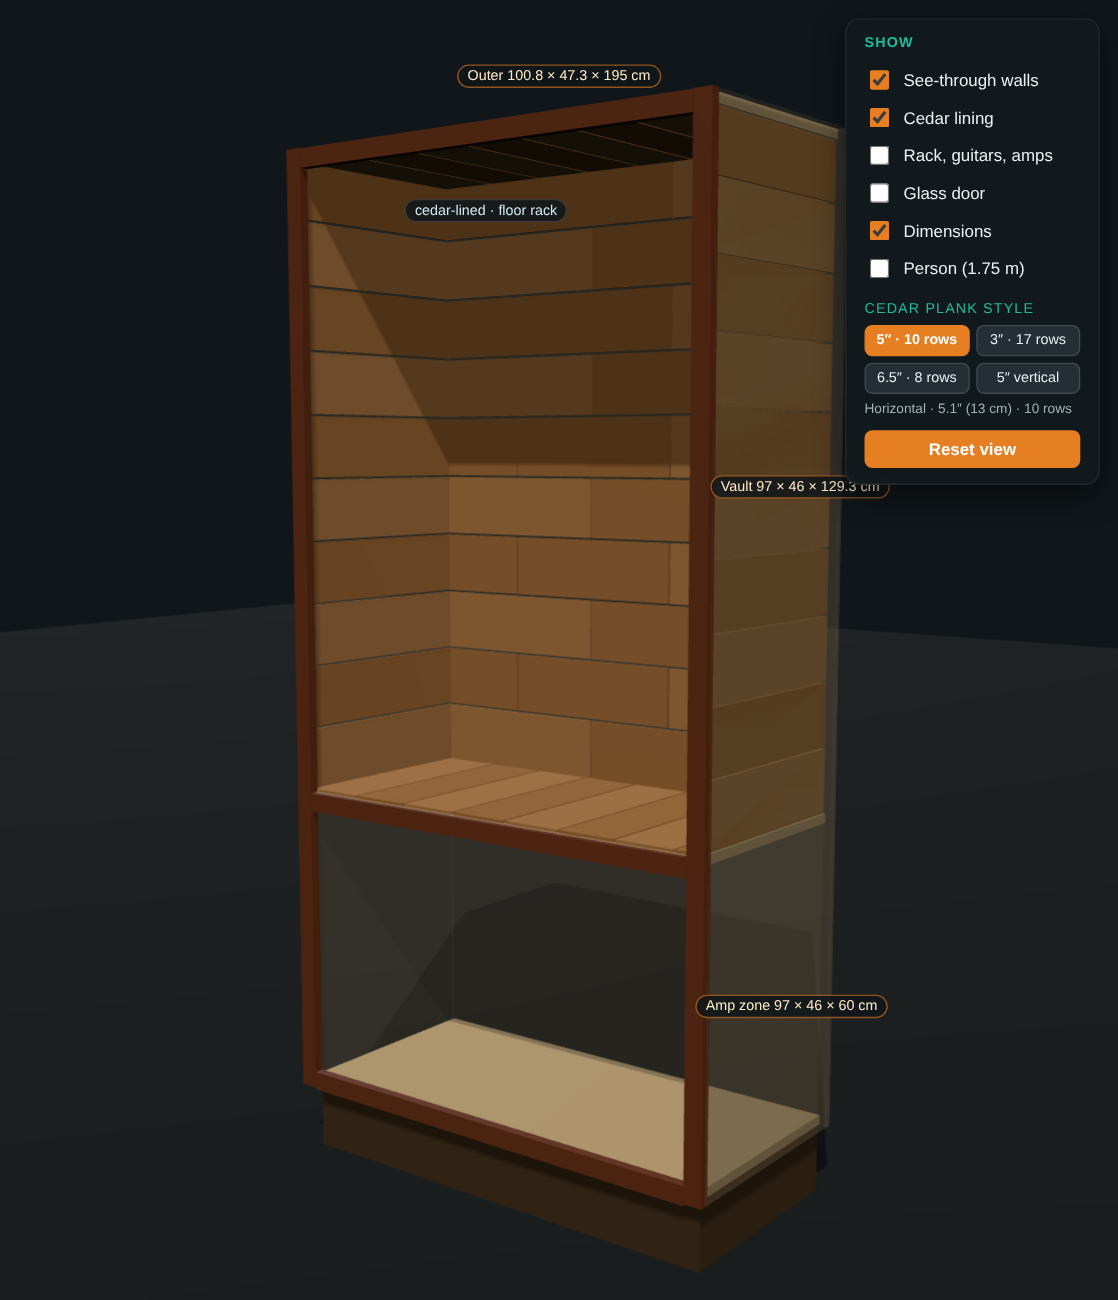
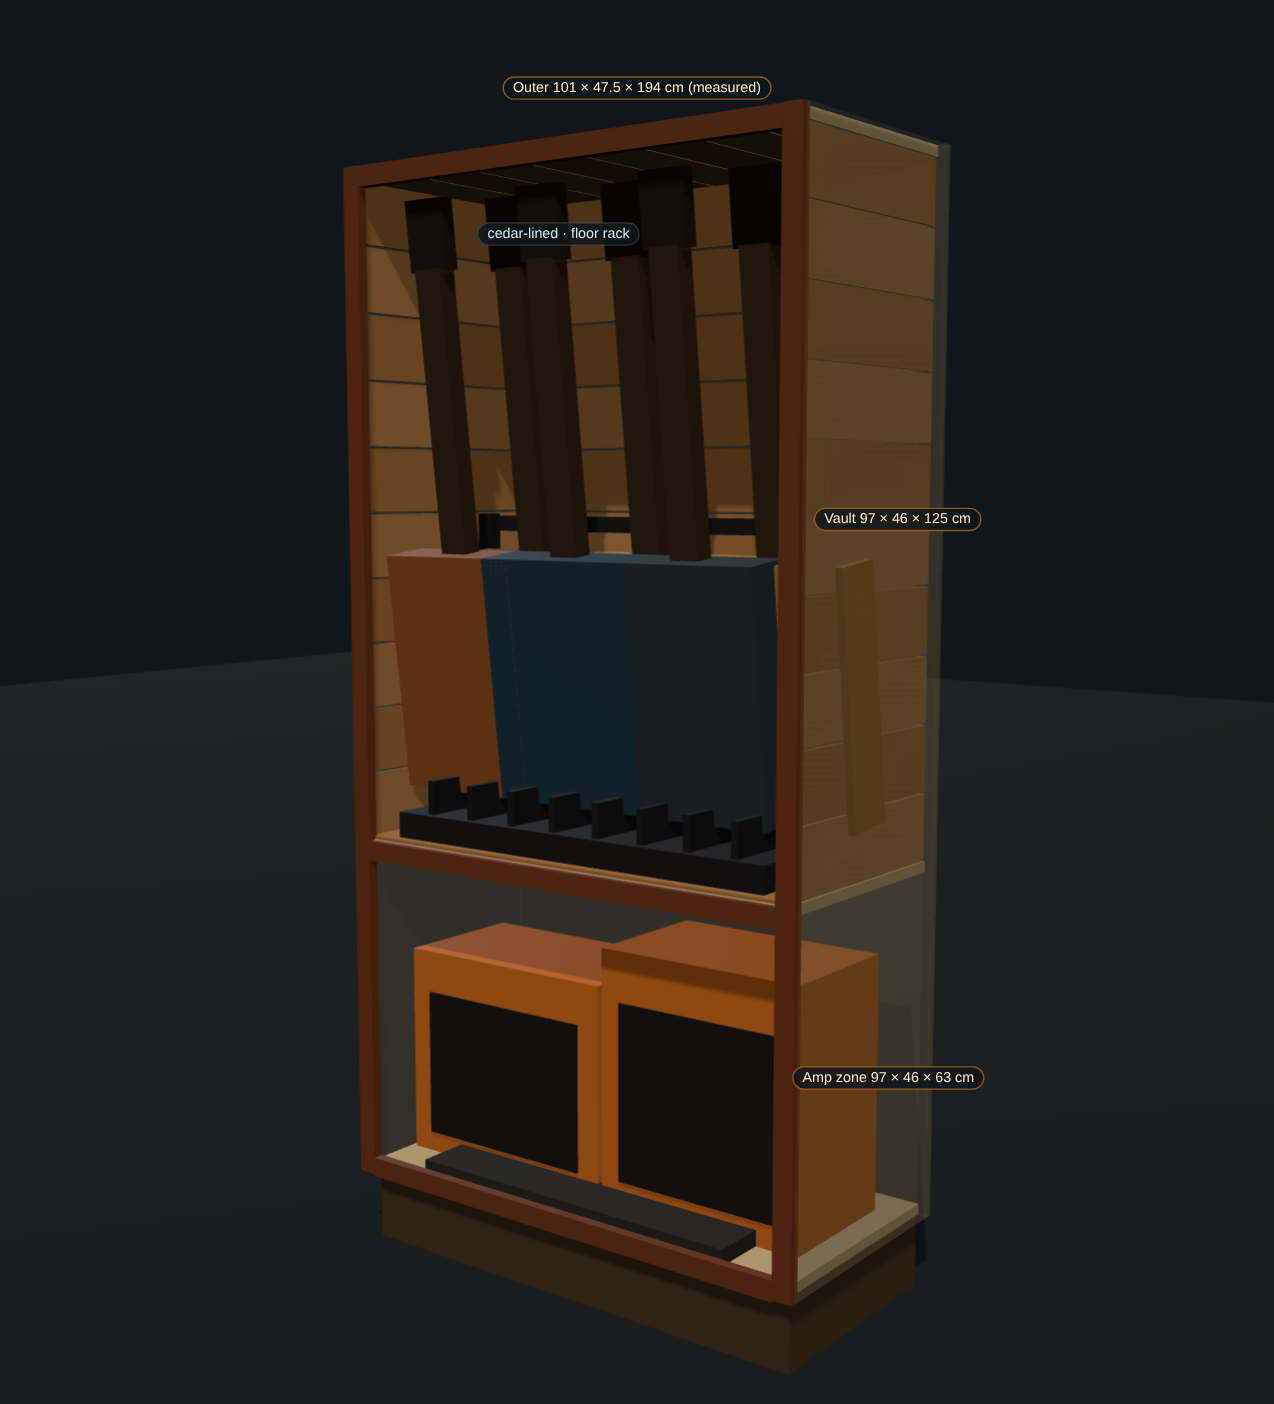
Cedar: final pre-cut plank order (floor L->R, ceiling F->B), supplier email
- cabinet-final-plan.md: pre-cut cedar order at 12.5 cm wide (10 exact rows),
  floor = long L->R planks, ceiling = short F->B planks; cut list + ~10%
  extra (~49 planks: 15x 97x12.5, 30x 46x12.5, + edge strips); corner note
- cedar-order-email.md: copy-paste email to the cedar supplier/wood shop
- 3D model: floor/ceiling plank orientation matches (floor L->R, ceiling
  F->B); default plank width 12.5 cm; camera exposed for renders

Changed region(s): [[0.2433, 0.0308, 0.9732, 0.9231], [0.8819, 0.1846, 0.9123, 0.2154]]

diff --git a/cabinet-3d-final.html b/cabinet-3d-final.html
@@ -46,10 +46,10 @@
   <label><input type="checkbox" id="t-person"> Person (1.75 m)</label>
   <div id="cedarhead">Cedar plank style</div>
   <div id="cedarbtns">
-    <button data-w="13"   data-v="0">5″ · 10 rows</button>
+    <button data-w="12.5" data-v="0">5″ · 10 rows</button>
     <button data-w="7.6"  data-v="0">3″ · 17 rows</button>
     <button data-w="16.5" data-v="0">6.5″ · 8 rows</button>
-    <button data-w="13"   data-v="1">5″ vertical</button>
+    <button data-w="12.5" data-v="1">5″ vertical</button>
   </div>
   <div id="cedarstatus"></div>
   <button id="reset">Reset view</button>
@@ -151,10 +151,12 @@ function buildCedar(W, vertical){
     if(!vertical){ let i=0; for(let y=yb; y<yt-0.2; y+=W){ const h=Math.min(W-REV, yt-y); plank(C, h, 45-REV, xs, y+h/2, 0, i%2); i++; } }
     else { let j=0; for(let z=-22.5; z<22.5-0.2; z+=W){ const w=Math.min(W-REV, 22.5-z); plank(C, vH-REV, w, xs, vMid, z+w/2, j%2); j++; } }
   }
-  // floor + ceiling (planks run front-to-back)
-  for(const yF of [divTop + C/2, vaultTop - C/2]){ let j=0; for(let x=-Wx/2; x<Wx/2-0.2; x+=W){ const w=Math.min(W-REV, Wx/2-x); plank(w, C, 45, x+w/2, yF, 0, j%2); j++; } }
+  // floor: long planks run left-to-right (full width), stacked front-to-back
+  { let j=0; for(let z=-22.5; z<22.5-0.2; z+=W){ const dd=Math.min(W-REV, 22.5-z); plank(Wx, C, dd, 0, divTop + C/2, z+dd/2, j%2); j++; } }
+  // ceiling: short planks run front-to-back (full depth), stacked left-to-right
+  { let j=0; for(let x=-Wx/2; x<Wx/2-0.2; x+=W){ const w=Math.min(W-REV, Wx/2-x); plank(w, C, 45, x+w/2, vaultTop - C/2, 0, j%2); j++; } }
 }
-buildCedar(13, false);
+buildCedar(12.5, false);
 
 // ===== furniture: floor rack + guitars + amps + pedalboard =====
 const furn = new THREE.Group(); scene.add(furn);
@@ -239,14 +241,14 @@ function setCedar(W, v, btn){
   cedarStatus.textContent = `${vert ? 'Vertical' : 'Horizontal'} · ${(+W/2.54).toFixed(1)}″ (${+W} cm) · ${vert ? Math.ceil((IW-1)/+W)+' planks across' : rows+' rows'}`;
 }
 document.querySelectorAll('#cedarbtns button').forEach(b => b.onclick = () => setCedar(b.dataset.w, b.dataset.v, b));
-setCedar('13', '0', document.querySelector('#cedarbtns button'));
+setCedar('12.5', '0', document.querySelector('#cedarbtns button'));
 
 addEventListener('resize', () => {
   camera.aspect = innerWidth/innerHeight; camera.updateProjectionMatrix();
   renderer.setSize(innerWidth, innerHeight); labelRenderer.setSize(innerWidth, innerHeight);
 });
 (function animate(){ requestAnimationFrame(animate); controls.update(); renderer.render(scene, camera); labelRenderer.render(scene, camera); })();
-window.__cab = { scene, OW, OD, OH, IW, VAULT, AMP };
+window.__cab = { scene, camera, controls, CAM0, TGT0, OW, OD, OH, IW, VAULT, AMP };
 } catch (err) { console.error(err); document.getElementById('err').style.display = 'flex'; }
 </script>
 </body>

diff --git a/cabinet-3d-final.template.html b/cabinet-3d-final.template.html
@@ -46,10 +46,10 @@
   <label><input type="checkbox" id="t-person"> Person (1.75 m)</label>
   <div id="cedarhead">Cedar plank style</div>
   <div id="cedarbtns">
-    <button data-w="13"   data-v="0">5″ · 10 rows</button>
+    <button data-w="12.5" data-v="0">5″ · 10 rows</button>
     <button data-w="7.6"  data-v="0">3″ · 17 rows</button>
     <button data-w="16.5" data-v="0">6.5″ · 8 rows</button>
-    <button data-w="13"   data-v="1">5″ vertical</button>
+    <button data-w="12.5" data-v="1">5″ vertical</button>
   </div>
   <div id="cedarstatus"></div>
   <button id="reset">Reset view</button>
@@ -151,10 +151,12 @@ function buildCedar(W, vertical){
     if(!vertical){ let i=0; for(let y=yb; y<yt-0.2; y+=W){ const h=Math.min(W-REV, yt-y); plank(C, h, 45-REV, xs, y+h/2, 0, i%2); i++; } }
     else { let j=0; for(let z=-22.5; z<22.5-0.2; z+=W){ const w=Math.min(W-REV, 22.5-z); plank(C, vH-REV, w, xs, vMid, z+w/2, j%2); j++; } }
   }
-  // floor + ceiling (planks run front-to-back)
-  for(const yF of [divTop + C/2, vaultTop - C/2]){ let j=0; for(let x=-Wx/2; x<Wx/2-0.2; x+=W){ const w=Math.min(W-REV, Wx/2-x); plank(w, C, 45, x+w/2, yF, 0, j%2); j++; } }
+  // floor: long planks run left-to-right (full width), stacked front-to-back
+  { let j=0; for(let z=-22.5; z<22.5-0.2; z+=W){ const dd=Math.min(W-REV, 22.5-z); plank(Wx, C, dd, 0, divTop + C/2, z+dd/2, j%2); j++; } }
+  // ceiling: short planks run front-to-back (full depth), stacked left-to-right
+  { let j=0; for(let x=-Wx/2; x<Wx/2-0.2; x+=W){ const w=Math.min(W-REV, Wx/2-x); plank(w, C, 45, x+w/2, vaultTop - C/2, 0, j%2); j++; } }
 }
-buildCedar(13, false);
+buildCedar(12.5, false);
 
 // ===== furniture: floor rack + guitars + amps + pedalboard =====
 const furn = new THREE.Group(); scene.add(furn);
@@ -239,14 +241,14 @@ function setCedar(W, v, btn){
   cedarStatus.textContent = `${vert ? 'Vertical' : 'Horizontal'} · ${(+W/2.54).toFixed(1)}″ (${+W} cm) · ${vert ? Math.ceil((IW-1)/+W)+' planks across' : rows+' rows'}`;
 }
 document.querySelectorAll('#cedarbtns button').forEach(b => b.onclick = () => setCedar(b.dataset.w, b.dataset.v, b));
-setCedar('13', '0', document.querySelector('#cedarbtns button'));
+setCedar('12.5', '0', document.querySelector('#cedarbtns button'));
 
 addEventListener('resize', () => {
   camera.aspect = innerWidth/innerHeight; camera.updateProjectionMatrix();
   renderer.setSize(innerWidth, innerHeight); labelRenderer.setSize(innerWidth, innerHeight);
 });
 (function animate(){ requestAnimationFrame(animate); controls.update(); renderer.render(scene, camera); labelRenderer.render(scene, camera); })();
-window.__cab = { scene, OW, OD, OH, IW, VAULT, AMP };
+window.__cab = { scene, camera, controls, CAM0, TGT0, OW, OD, OH, IW, VAULT, AMP };
 } catch (err) { console.error(err); document.getElementById('err').style.display = 'flex'; }
 </script>
 </body>

diff --git a/cabinet-final-plan.md b/cabinet-final-plan.md
@@ -21,7 +21,7 @@ Line the **four inner faces of the vault** — back, two sides, floor, and ceili
 **Do not line the front** (that's the door opening). Leave the cedar **bare**
 (no finish) so it buffers humidity.
 
-**Order:** ~**3.9 m² (≈ 42 sq ft)** of **6 mm (¼ in) solid Spanish cedar**
+**Order:** **6 mm (¼ in) solid Spanish cedar**, ~3.25 m² (≈ 35 sq ft) of coverage
 (*Cedrela*, not Western red cedar; kiln-dried). Quote by area from a hardwood/humidor
 dealer. See material notes at the end.
 
@@ -34,28 +34,48 @@ dealer. See material notes at the end.
 | Floor | 97 × 46 cm | 1 |
 | Ceiling | 97 × 46 cm | 1 |
 
-**Install:** run the planks in **horizontal courses (~13 cm / 5 in wide) with
-staggered end seams**; run the back boards full-width and butt the side boards into
-them at the front corners; floor/ceiling boards run front-to-back. Fix with brad
-nails + a little instrument-safe adhesive.
+**Install:** run the planks in **horizontal courses (~12.5 cm / 5 in wide) with
+staggered end seams**; the **back** boards run full-width (left↔right) and the **side**
+boards butt into them at the front corners; the **floor** boards run **left↔right**,
+the **ceiling** boards run **front↔back**. Fix with brad nails + a little
+instrument-safe adhesive.
 
 > Lining adds ~6 mm to each face, so the clear vault becomes ~95.8 × 45 × 124 cm —
 > the guitar rack (≈ 82 × 37 cm) and the standing guitars (≈ 118 cm) still fit.
 
-**How many planks?** Total face area is **3.25 m² (≈ 35 sq ft)**. Short planks waste
-more to cutting, so add ~**20%** → buy material for **~42 sq ft (3.9 m²)**.
+### Order — pre-cut planks (no cutting at home)
 
-| If you buy… | Each plank | Planks to buy |
+Have the supplier cut every plank to size. All planks **¼ in (6 mm) thick × 12.5 cm
+(≈ 5 in) wide** — at 12.5 cm wide the **125 cm vault height = exactly 10 rows** (no ripping).
+
+Plank directions: **back & floor** run **left↔right** (97 cm long); **sides & ceiling**
+run **front↔back** (46 cm long — the ceiling planks are the side planks laid flat).
+
+| Face | Plank size (length × width) | Qty |
 |---|---|---|
-| **6″ × 12″ × ¼″** (recommended of the short planks) | 0.50 sq ft | **~84–85** |
-| 5″ × 12″ × ¼″ | 0.42 sq ft | **~100** |
-| ~13 cm (5″) wide **long boards** (46–97 cm) | — | ~50 (much less cutting waste) |
-| Small 30 × 7.5 cm (12 × 3″) humidor planks | 0.023 m² | ~150–160 |
+| Back (L→R) | 97 × 12.5 cm | 10 |
+| Floor (L→R) | 97 × 12.5 cm | 3 |
+| Floor edge row | 97 × ~8.5 cm | 1 |
+| Left side (F→B) | 46 × 12.5 cm | 10 |
+| Right side (F→B) | 46 × 12.5 cm | 10 |
+| Ceiling (F→B) | 46 × 12.5 cm | 7 |
+| Ceiling edge row | 46 × ~9.5 cm | 1 |
+| **Exact total** | | **42** |
 
-Per-face at **6″ × 12″**: back ~30 · two sides ~30 · floor + ceiling ~28 → **≈ 85**.
-Prefer the **6″** width (fewer pieces, less waste), or **long boards by area** when
-available. Skipping the ceiling lining saves ~15 planks (then shellac that one bare
-plywood face).
+**Order with ~10% extra** — two main sizes + two edge strips:
+
+| Plank size | Qty to order |
+|---|---|
+| **97 × 12.5 cm** | **15** |
+| **46 × 12.5 cm** | **30** |
+| 97 × ~8.5 cm | 2 |
+| 46 × ~9.5 cm | 2 |
+| **Total** | **≈ 49** |
+
+**Corner fit:** install the **back first (full 97 cm)**, then butt the sides/ceiling
+to it — so those may want to be **~45.5 cm** (46 − 6 mm). Ask the supplier for 45.5 cm,
+or shave ~6 mm at home. Edge-row widths (8.5 / 9.5 cm) are approximate — confirm
+against the box.
 
 ---
 

diff --git a/cedar-order-email.md b/cedar-order-email.md
@@ -1,0 +1,30 @@
+# Spanish Cedar Plank Order — email draft (to the wood shop / supplier)
+
+**Subject:** Spanish cedar planks, cut to size — small order
+
+Hi,
+
+I'm lining the inside of a cabinet and would like **solid Spanish cedar** (Cedrela,
+kiln-dried) cut to size so I don't have to cut at home. All planks are **¼ inch
+(6 mm) thick** and **12.5 cm (≈ 5 inch) wide**, in these lengths and quantities
+(this already includes ~10% extra for waste):
+
+**Main planks — ¼ in thick × 12.5 cm wide:**
+- 97 cm long — **15 pcs**
+- 46 cm long — **30 pcs**
+
+**Two narrow edge strips — ¼ in thick:**
+- 97 cm long × 8.5 cm wide — **2 pcs**
+- 46 cm long × 9.5 cm wide — **2 pcs**
+
+**Total ≈ 49 planks.**
+
+For context, this lines a cabinet vault measuring **97 cm wide × 46 cm deep ×
+125 cm tall** (back + two sides + floor + ceiling).
+
+Could you please confirm:
+1. That it's **genuine Spanish cedar (Cedrela), kiln-dried**, left unfinished?
+2. **Price** for the above, and whether the cut-to-size is included?
+3. **Lead time**, and pickup vs. delivery?
+
+Thanks very much!
